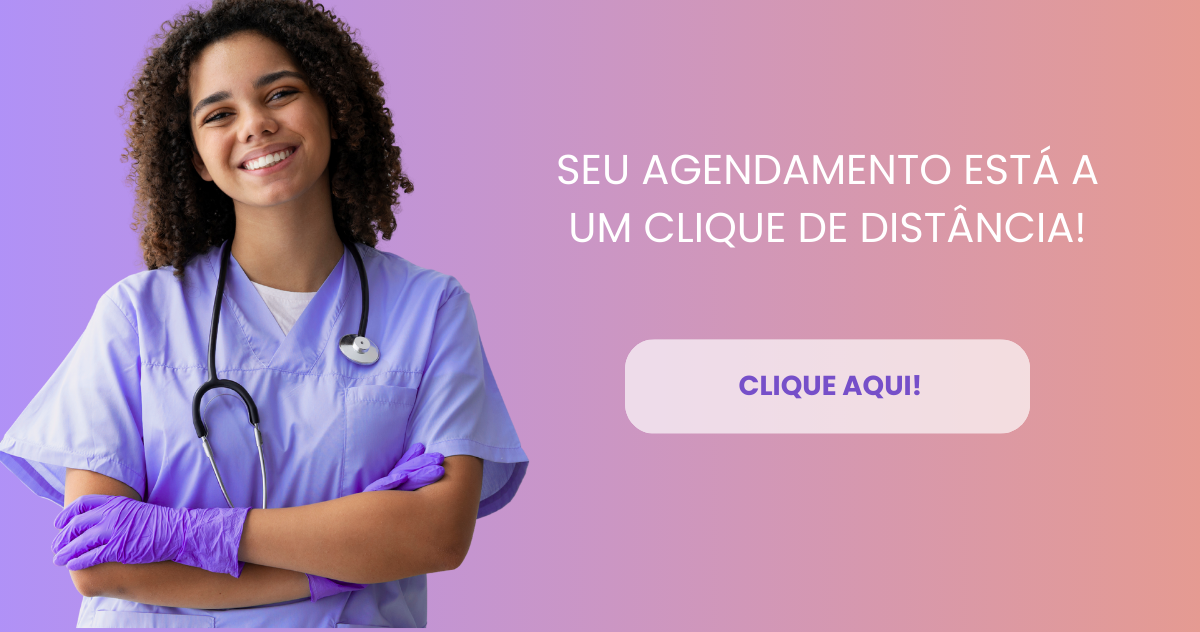
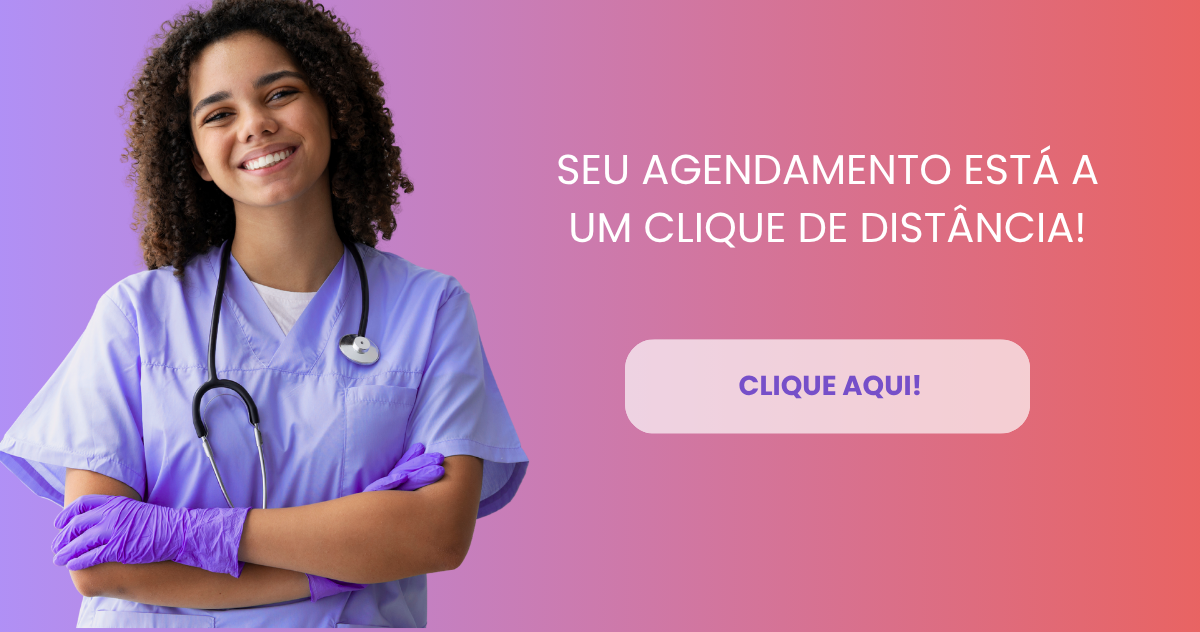
style: cores

diff --git a/src/pages/user-payment-screen/index.tsx b/src/pages/user-payment-screen/index.tsx
@@ -1,12 +1,12 @@
-import React, { useCallback, useEffect, useRef, useState } from 'react';
-import { StyleSheet, View, Image, Clipboard, ScrollView } from 'react-native';
-import { Text, Card, Button, useTheme, ActivityIndicator } from 'react-native-paper';
-import { useFocusEffect, useRoute } from '@react-navigation/native';
-import { generateRequestHeader, getCurrentDate, maskBrazilianCurrency } from '../../utils/app-utils';
-import { api } from '../../network/api';
-import { useAuth } from '../../context/AuthContext';
+import React, {useCallback, useEffect, useRef, useState} from 'react';
+import {StyleSheet, View, Image, Clipboard, ScrollView} from 'react-native';
+import {Text, Card, Button, useTheme, ActivityIndicator} from 'react-native-paper';
+import {useFocusEffect, useRoute} from '@react-navigation/native';
+import {generateRequestHeader, getCurrentDate, maskBrazilianCurrency} from '../../utils/app-utils';
+import {api} from '../../network/api';
+import {useAuth} from '../../context/AuthContext';
 import LoadingFull from '../../components/loading-full';
-import { navigate } from '../../router/navigationRef';
+import {navigate} from '../../router/navigationRef';
 import { toast } from 'sonner-native';
 import MaterialCommunityIcons from 'react-native-vector-icons/MaterialCommunityIcons';
 
@@ -19,8 +19,8 @@ interface PixResponse {
 
 export default function UserPaymentScreen() {
   const route = useRoute();
-  const { colors } = useTheme();
-  const { authData } = useAuth();
+  const {colors} = useTheme();
+  const {authData} = useAuth();
 
   const [loading, setLoading] = useState<boolean>(true);
   const [pixResponse, setPixResponse] = useState<PixResponse>();
@@ -44,7 +44,7 @@ export default function UserPaymentScreen() {
           dta_pagamento_cpp: getCurrentDate(),
           id_origem_cpp: 8,
         },
-        generateRequestHeader(authData.access_token),
+        generateRequestHeader(authData.access_token)
       );
       setPixResponse(response.data.response);
     } catch (err: any) {
@@ -55,8 +55,11 @@ export default function UserPaymentScreen() {
   }
 
   async function checkPaid(cod_pagamento: string) {
-    const response = await api.get(`/integracaoPagarMe/verificarPagamento?cod_pedido_pgm=${cod_pagamento}`, generateRequestHeader(authData.access_token));
-
+    const response = await api.get(
+      `/integracaoPagarMe/verificarPagamento?cod_pedido_pgm=${cod_pagamento}`,
+      generateRequestHeader(authData.access_token)
+    );
+    
     if (response.status === 200) {
       const status = response.data.response[0]?.des_status_pgm;
       if (status === 'paid') navigate('user-payment-successfull-screen');
@@ -70,7 +73,7 @@ export default function UserPaymentScreen() {
         checkPaid(pixResponse?.codigoPagamento!);
       }, 20000);
       return () => clearInterval(interval);
-    }, [pixResponse?.codigoPagamento]),
+    }, [pixResponse?.codigoPagamento])
   );
 
   useEffect(() => {
@@ -80,45 +83,44 @@ export default function UserPaymentScreen() {
   }, [route]);
 
   return (
-    <View style={[styles.container, { backgroundColor: colors.background }]}>
+    <View style={[styles.container, {backgroundColor: colors.background}]}>
       {loading ? (
         <LoadingFull />
       ) : (
         <ScrollView contentContainerStyle={styles.scrollContainer}>
           <Card mode="elevated" style={[styles.card, { backgroundColor: colors.surface }]}>
             <Card.Title
-              title="Pagamento via Pix"
-              subtitle="Escaneie o QR Code ou copie o código abaixo para pagar."
-              titleStyle={[styles.title, { color: colors.primary }]}
-              subtitleStyle={[styles.subtitle, { color: colors.onSurfaceVariant }]}
-              left={props => <MaterialCommunityIcons {...props} name="qrcode-scan" size={28} color={colors.primary} />}
-              titleContainerStyle={styles.titleContainer} // Add custom container style
-            />
+  title="Pagamento via Pix"
+  subtitle="Escaneie o QR Code ou copie o código abaixo para pagar."
+  titleStyle={[styles.title, { color: colors.primary }]}
+  subtitleStyle={[styles.subtitle, { color: colors.onSurfaceVariant }]}
+  left={props => <MaterialCommunityIcons {...props} name="qrcode-scan" size={28} color={colors.primary} />}
+  titleContainerStyle={styles.titleContainer} // Add custom container style
+/>
             <Card.Content style={styles.content}>
-              {pixResponse && (
-  <View style={styles.valueContainer}>
-    <Text variant="bodyMedium" style={[styles.label, { color: colors.onSurface }]}>
-      Valor da Parcela:
-    </Text>
-    <Text variant="headlineMedium" style={[styles.value, { color: colors.primary }]}>
-      {maskBrazilianCurrency(pixResponse.vlr_parcela_cpp)}
-    </Text>
-  </View>
-)}
+              <View style={styles.valueContainer}>
+                <Text variant="bodyMedium" style={[styles.label, { color: colors.onSurface }]}>
+                  Valor da Parcela:
+                </Text>
+                <Text variant="headlineMedium" style={[styles.value, { color: colors.primary }]}>
+                  {maskBrazilianCurrency(pixResponse!.vlr_parcela_cpp ?? 0)}
+                </Text>
+              </View>
 
               <View style={styles.qrContainer}>
                 <Text variant="bodyMedium" style={[styles.label, { color: colors.onSurface }]}>
                   Escaneie o QR Code:
                 </Text>
                 <View style={[styles.qrBorder, { borderColor: colors.primaryContainer }]}>
-                  <Image source={{ uri: pixResponse!.qrcode_url }} style={styles.qrCode} resizeMode="contain" />
+                  <Image source={{uri: pixResponse!.qrcode_url}} style={styles.qrCode} resizeMode="contain" />
                 </View>
                 <Button
                   mode="contained-tonal"
                   icon="content-copy"
                   onPress={copyToClipboard}
                   style={[styles.copyButton, { backgroundColor: colors.primaryContainer }]}
-                  labelStyle={{ color: colors.onPrimaryContainer }}>
+                  labelStyle={{ color: colors.onPrimaryContainer }}
+                >
                   Copiar código Pix
                 </Button>
               </View>
@@ -173,7 +175,7 @@ const styles = StyleSheet.create({
     shadowRadius: 6,
   },
   title: { fontWeight: '800', fontSize: 22, textAlign: 'center' }, // Removed marginLeft: -8
-  subtitle: { textAlign: 'center', fontSize: 16 }, // Adjust fontSize as needed
+  subtitle: { textAlign: 'center', fontSize: 16 }, // Adjust fontSize as needed  
   content: { paddingVertical: 16 },
   valueContainer: { alignItems: 'center', marginBottom: 24 },
   label: { fontWeight: '500', marginBottom: 4 },
@@ -194,10 +196,10 @@ const styles = StyleSheet.create({
   qrCode: { width: 220, height: 220 },
   copyButton: { borderRadius: 12, marginTop: 8 },
   titleContainer: {
-    justifyContent: 'center',
-    alignItems: 'center',
-    flexDirection: 'row', // Ensure icon and text are aligned properly
-  },
+  justifyContent: 'center',
+  alignItems: 'center',
+  flexDirection: 'row', // Ensure icon and text are aligned properly
+},
   infoCard: {
     borderRadius: 16,
     marginBottom: 24,

diff --git a/src/pages/user-personal-carteirinha-screen/index.tsx b/src/pages/user-personal-carteirinha-screen/index.tsx
@@ -214,7 +214,7 @@ const styles = StyleSheet.create({
     marginBottom: 20,
   },
   loginButton: {
-    backgroundColor: '#AF91F9',
+    backgroundColor: '#A497FB',
     borderRadius: 25,
     paddingVertical: 12,
     paddingHorizontal: 25,
@@ -238,7 +238,7 @@ const styles = StyleSheet.create({
   },
   instructionText: {
     marginLeft: 8,
-    color: '#AF91F9',
+    color: '#A497FB',
     fontSize: 14,
   },
   landscapeWrapper: {
@@ -261,7 +261,7 @@ const styles = StyleSheet.create({
     position: 'relative',
     backgroundColor: '#FFFFFF',
     borderWidth: 1,
-    borderColor: '#AF91F9',
+    borderColor: '#A497FB',
   },
   gradientBackground: {
     position: 'absolute',
@@ -352,7 +352,7 @@ const styles = StyleSheet.create({
     fontSize: 16,
   },
   cardFooter: {
-    backgroundColor: '#AF91F9',
+    backgroundColor: '#A497FB',
     padding: 12,
     borderBottomLeftRadius: 20,
     borderBottomRightRadius: 20,

diff --git a/src/pages/user-schedules-history-screen/index.tsx b/src/pages/user-schedules-history-screen/index.tsx
@@ -306,7 +306,7 @@ const styles = StyleSheet.create({
   icon: { marginBottom: 16 },
   text: { textAlign: 'center', paddingHorizontal: 16, marginBottom: 16 },
   filterModal: { margin: 20, borderRadius: 16, padding: 0, overflow: 'hidden' },
-  filterModalHeader: { flexDirection: 'row', justifyContent: 'space-between', alignItems: 'center', paddingHorizontal: 16, paddingVertical: 12, borderBottomWidth: 1, backgroundColor: '#AF91F9', borderBottomColor: '#f0f0f0' },
+  filterModalHeader: { flexDirection: 'row', justifyContent: 'space-between', alignItems: 'center', paddingHorizontal: 16, paddingVertical: 12, borderBottomWidth: 1, backgroundColor: '#A497FB', borderBottomColor: '#f0f0f0' },
   filterModalTitle: { fontWeight: '600', color: 'white' },
   dateInputsContainer: { padding: 16 },
   dateInput: { marginBottom: 16 },

diff --git a/src/themes/app-theme.ts b/src/themes/app-theme.ts
@@ -4,19 +4,19 @@ const LightTheme = {
   ...MD3LightTheme,
   colors: {
     ...MD3LightTheme.colors,
-    primary: '#AF91F9',
+    primary: '#A497FB',
     surfaceTint: '#266A49',
     onPrimary: '#FFFFFF',
-    corpadrao: '#AF91F9',
-    primaryContainer: '#AF91F9',
+    corpadrao: '#F1591E',
+    primaryContainer: '#A497FB',
     onPrimaryContainer: '#FFF',
-    secondary: '#AF91F9',
+    secondary: '#F1591E',
     onSecondary: '#FFFFFF',
     fundo: '#f7f7f7',
-        textcolor: '#AF91F9', //searchbar
-        textcolor1: '#ea7c5bc2', //searchbar
+        textcolor: '#A497FB', //searchbar
+        textcolor1: '#F1591E', //searchbar
 
-    secondaryContainer: '#AF91F9', //searchbar
+    secondaryContainer: '#A497FB', //searchbar
     onSecondaryContainer: '#FFF',
     tertiary: '#3C6471',
     onTertiary: '#f7f7f7',

diff --git a/src/pages/user-contracts-payment-method-router/payment-boleto.tsx b/src/pages/user-contracts-payment-method-router/payment-boleto.tsx
@@ -439,7 +439,7 @@ export default function PaymentBoleto() {
                 mode="contained"
                 icon="file-pdf-box"
                 onPress={() => boletoResponse?.boleto_pdf && Linking.openURL(boletoResponse.boleto_pdf)}
-                style={[styles.actionButton, { backgroundColor: '#ea7c5bc2' }]}
+                style={[styles.actionButton, { backgroundColor: '#F1591E' }]}
                 labelStyle={styles.buttonLabel}
               >
                 Baixar PDF

diff --git a/src/pages/user-mdv-presentation/charts/sales-charts.tsx b/src/pages/user-mdv-presentation/charts/sales-charts.tsx
@@ -7,6 +7,7 @@ import { StyleSheet } from 'react-native';
 import { maskBrazilianCurrency } from '../../../utils/app-utils';
 
 const SalesChart = ({ salesData, loading }: { salesData: Sale[]; loading: boolean }) => {
+  console.log(salesData);
   const { colors } = useTheme();
   const { width } = useWindowDimensions();
   const [menuVisible, setMenuVisible] = useState(false);

diff --git a/src/components/loading-full.tsx b/src/components/loading-full.tsx
@@ -79,7 +79,7 @@ const LoadingFull = () => {
   transform: [{ translateY }],
 }]}>
     <LinearGradient
-      colors={['#AF91F9', '#ED9C83']} // aqui você define as cores do gradient
+      colors={['#A497FB', '#ED9C83']} // aqui você define as cores do gradient
       start={{ x: 0, y: 0 }}
       end={{ x: 0, y: 1 }}
       style={{ flex: 1 }}

diff --git a/src/pages/contrato-parcela-detail-screen/index.tsx b/src/pages/contrato-parcela-detail-screen/index.tsx
@@ -49,7 +49,7 @@ const ContratoParcelaDetailScren = () => {
       {loading ? (
         <LoadingFull 
           size={300} 
-          colors={['#AF91F9', '#EE70E8']} // 🔹 usa as duas cores aqui
+          colors={['#A497FB', '#EE70E8']} // 🔹 usa as duas cores aqui
         />
       ) : (
         <FlatList

diff --git a/src/pages/user-telemed-sceen/user-telemed-queue-screen.tsx b/src/pages/user-telemed-sceen/user-telemed-queue-screen.tsx
@@ -105,7 +105,7 @@ const UserTelemedQueueScreen = () => {
       android: {
         channelId: 'default-id-channel',
         smallIcon: 'ic_notification',
-                  color: '#AF91F9',
+                  color: '#A497FB',
 
         pressAction: { id: 'default' },
       },
